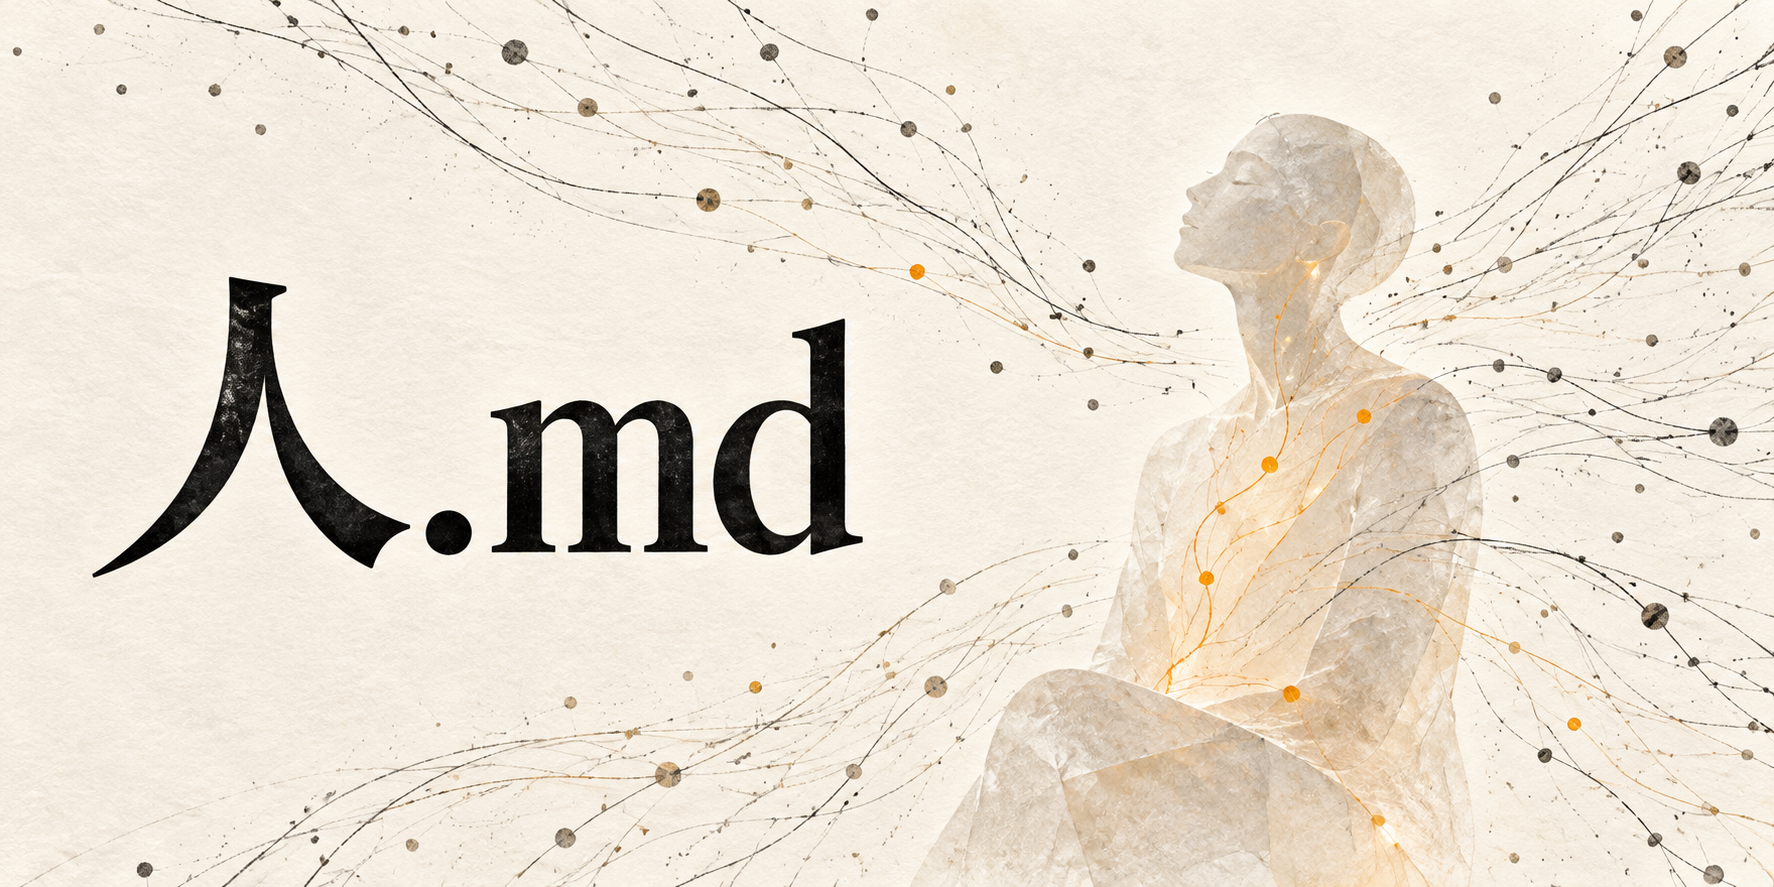
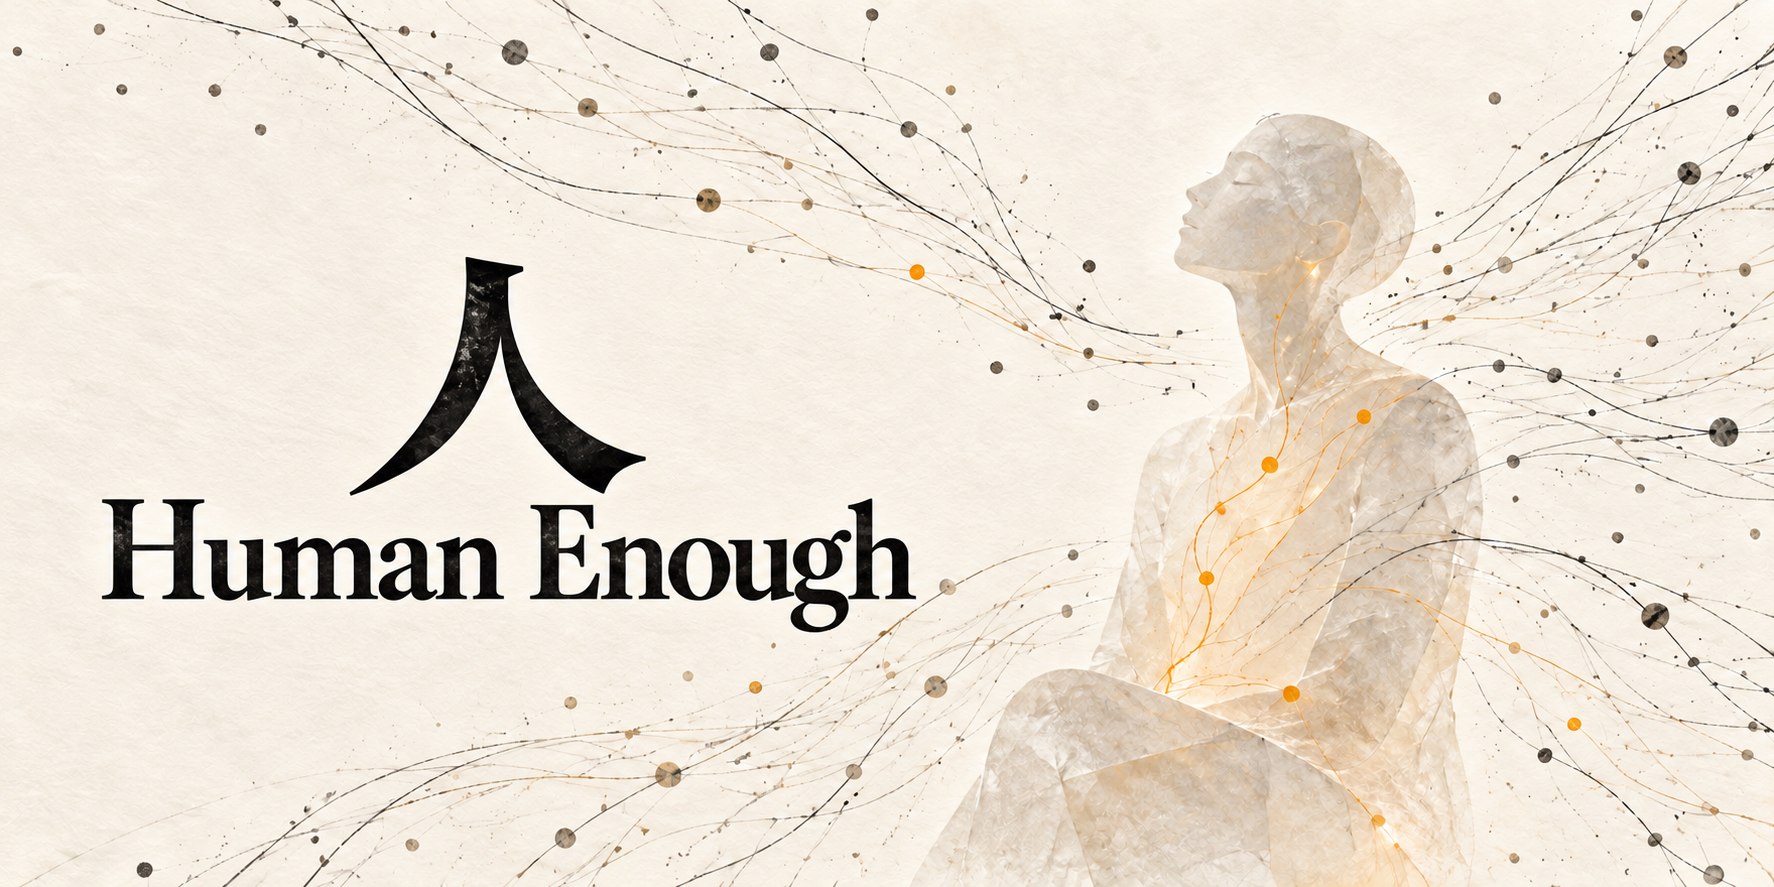
docs: update cover with bilingual Human Enough title

diff --git a/assets/cover-prompt.md b/assets/cover-prompt.md
@@ -1,5 +1,13 @@
 # 封面设计记录
 
+当前封面标题：人 / Human Enough。使用内置 imagegen 在原封面上编辑标题，保留纸张、人形和信息流构图。
+
+双语版编辑提示词：
+
+> Edit the provided GitHub cover. Change only the title typography in the left open area. Remove '人.md' and replace it with a bilingual editorial title: large Chinese '人', with English 'Human Enough' on a separate line underneath in elegant black serif typography. Exact text only: '人' and 'Human Enough'. Both lines should be clearly legible at GitHub README display size, with balanced hierarchy and generous spacing. Preserve the wide 2:1 composition, warm off-white textured paper, translucent paper human silhouette on the right, all graphite threads and specks, orange signal lines, colors, lighting, and poetic handmade printmaking style. Do not add any other text or alter the illustration.
+
+## 原始封面
+
 生成方式：OpenAI 内置 imagegen。
 
 概念：接收很多信息，但不需要回应所有信息。以温暖的纸张、透明的人形和细线表现开放与选择，大部分信号经过，少数橙色信号留下。

diff --git a/README.md b/README.md
@@ -1,4 +1,4 @@
-![人：许多信息轻轻经过，少数值得留下](./assets/cover.png)
+![人 / Human Enough：许多信息轻轻经过，少数值得留下 / Let most signals pass; keep what matters](./assets/cover.png)
 
 # Human Enough｜人
 
